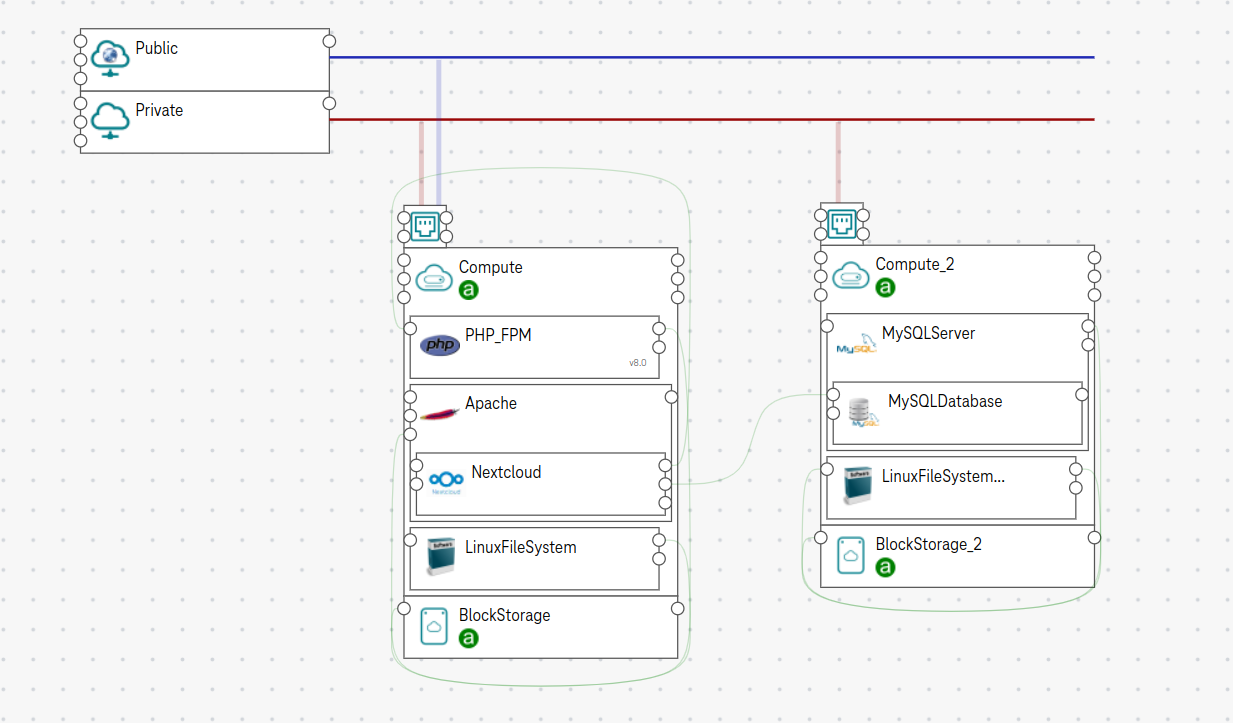
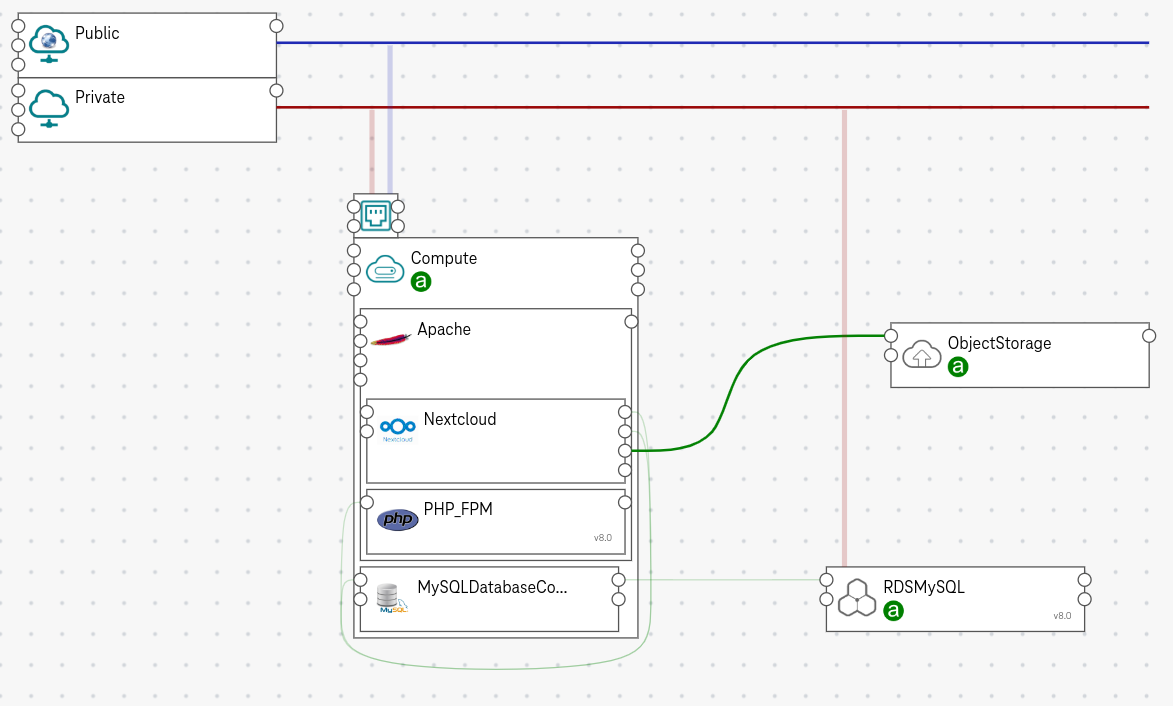
Support Nextcloud app with connection to OBS (#8)
* Update Nextcloud app version 1.2.0 with connection to OBS

* Typo in taskname of download nextcloud zip

* Upgrade PHP from 1.0.0 to 1.1.0

* Change relationship of PHP-FPM from `dependsOn` to `hostedOn` Apache server.
* Fix ansible package_facts take long time to complete (use `service_facts` instead).

Changed region(s): [[0.0, 0.0, 0.9821, 0.966], [0.9207, 0.8102, 0.9514, 0.8725], [0.9514, 0.4363, 0.9821, 0.4674]]

diff --git a/CHANGELOG.md b/CHANGELOG.md
@@ -1,5 +1,19 @@
 # Changelog
 
+## 31.08.2022
+
+### Upgrade Nextcloud app v1.2.0
+
+* Nextcloud app can now connect to the Object Storage of Open Telekom Cloud.
+* It uses the runtime attributes of Object Storage (i.e., `bucket_id`, `bucket_domain_name`) for configuring the `config.php` file.
+
+## 20.07.2022
+
+### Upgrade PHP v1.1.0
+
+* Change relationship of PHP from `dependsOn` to `hostedOn` Apache server.
+* Fix ansible package_facts take long time to complete (use `service_facts` instead).
+
 ## 09.06.2022
 
 ### Nextcloud app
